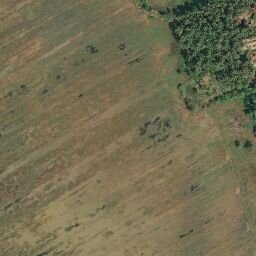
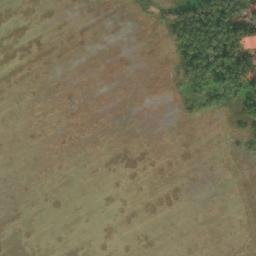
add time stamp list

diff --git a/Maps/esri/esri.py b/Maps/esri/esri.py
@@ -4,6 +4,19 @@ import math
 import matplotlib.pyplot as plt
 from PIL import Image
 
+timestamp = dict(
+    {
+        2023: '64776',
+        2022: '47471',
+        2021: '8432',
+        2020: '20753',
+        2019: '11351',
+        2018: '2168',
+        2016: '6984',
+        2014: '23383',
+    }
+)
+
 def lat_lon_to_tile(lon, lat, zoom):
     lat_rad = math.radians(lat)
     n = 2.0 ** zoom
@@ -11,7 +24,7 @@ def lat_lon_to_tile(lon, lat, zoom):
     ytile = int((1.0 - math.log(math.tan(lat_rad) + (1 / math.cos(lat_rad))) / math.pi) / 2.0 * n)
     return (xtile, ytile)
 
-def construct_url(xtile, ytile, zoom, time='11351'):
+def construct_url(xtile, ytile, zoom, time=timestamp[2014]):
     base_url = 'https://wayback.maptiles.arcgis.com/arcgis/rest/services/World_Imagery/MapServer/tile'
     url = f"{base_url}/{time}/{int(zoom)}/{ytile}/{xtile}"
     return url
